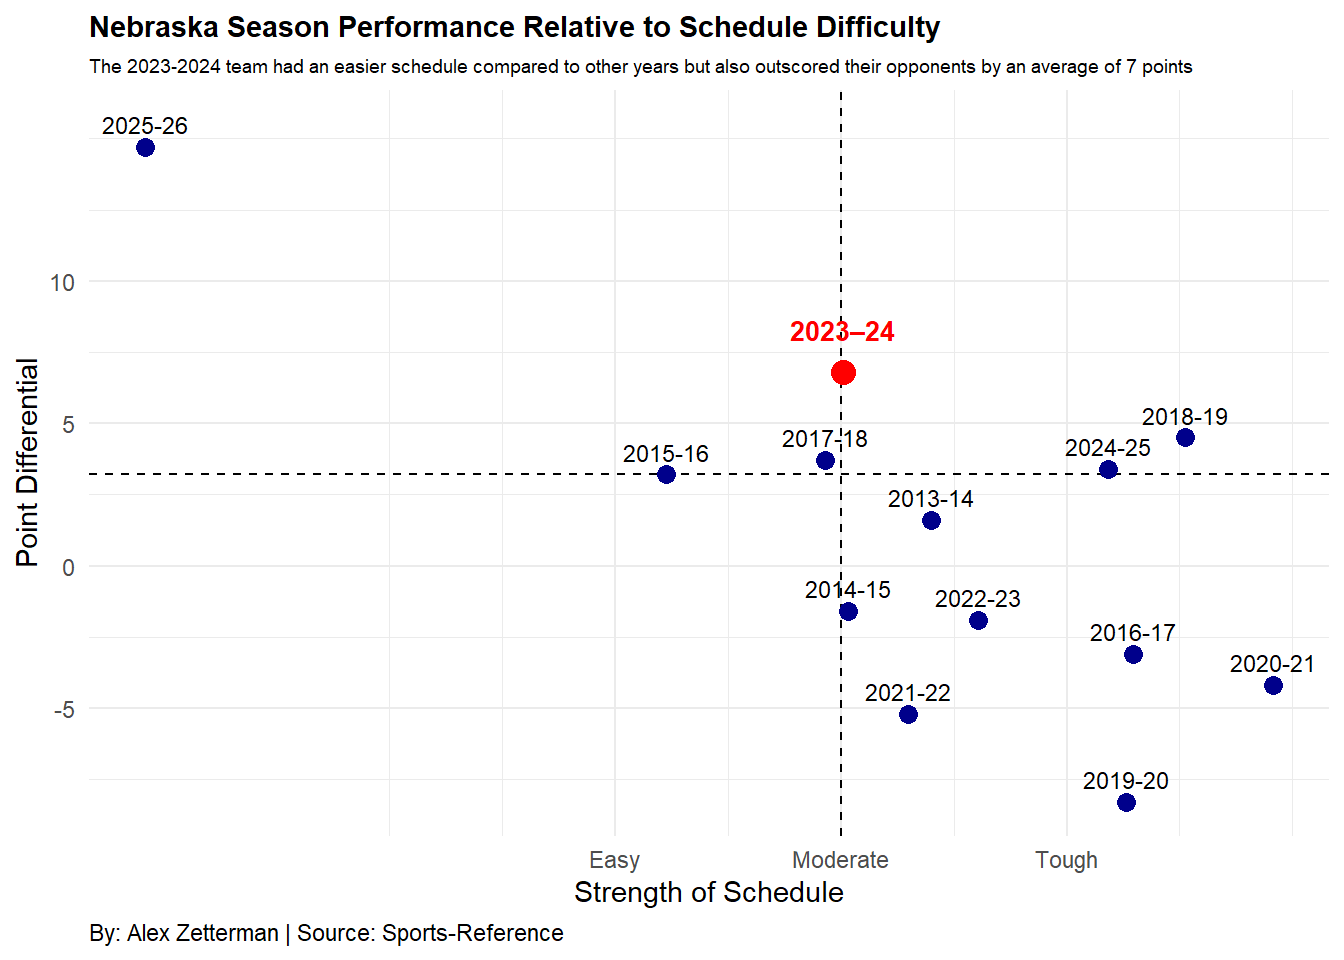
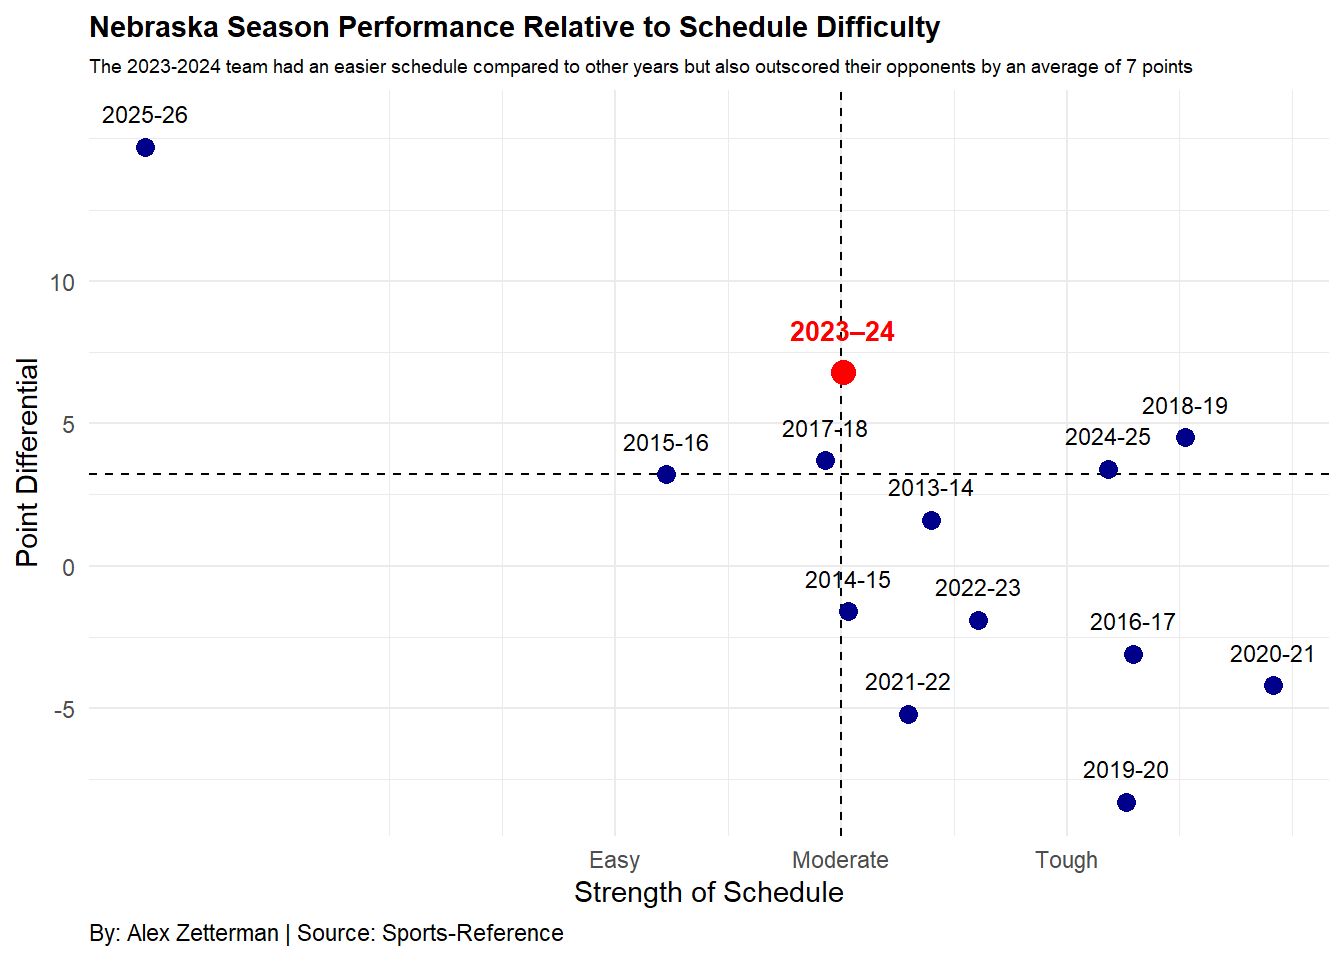
edit

diff --git a/posts/Nebraksa-Mens-Basketball/Index.html b/posts/Nebraksa-Mens-Basketball/Index.html
@@ -461,7 +461,7 @@ pre > code.sourceCode > span > a:first-child::before { text-decoration: underlin
 <div class="code-copy-outer-scaffold"><div class="sourceCode cell-code" id="cb2"><pre class="sourceCode r code-with-copy"><code class="sourceCode r"><span id="cb2-1"><a href="#cb2-1" aria-hidden="true" tabindex="-1"></a>Nebraska_Season <span class="ot">&lt;-</span> Nebraska_Season <span class="sc">|&gt;</span></span>
 <span id="cb2-2"><a href="#cb2-2" aria-hidden="true" tabindex="-1"></a>  <span class="fu">mutate</span>(<span class="at">Point_Diff =</span> Points_For <span class="sc">-</span> Points_Against)</span>
 <span id="cb2-3"><a href="#cb2-3" aria-hidden="true" tabindex="-1"></a></span>
-<span id="cb2-4"><a href="#cb2-4" aria-hidden="true" tabindex="-1"></a>x_mid <span class="ot">&lt;-</span> <span class="fl">7.5</span>  <span class="co"># Moderate SOS</span></span>
+<span id="cb2-4"><a href="#cb2-4" aria-hidden="true" tabindex="-1"></a>x_mid <span class="ot">&lt;-</span> <span class="fl">7.5</span>  </span>
 <span id="cb2-5"><a href="#cb2-5" aria-hidden="true" tabindex="-1"></a>y_mid <span class="ot">&lt;-</span> (<span class="fu">min</span>(Nebraska_Season<span class="sc">$</span>Point_Diff, <span class="at">na.rm =</span> <span class="cn">TRUE</span>) <span class="sc">+</span> <span class="fu">max</span>(Nebraska_Season<span class="sc">$</span>Point_Diff, <span class="at">na.rm =</span> <span class="cn">TRUE</span>)) <span class="sc">/</span> <span class="dv">2</span></span>
 <span id="cb2-6"><a href="#cb2-6" aria-hidden="true" tabindex="-1"></a></span>
 <span id="cb2-7"><a href="#cb2-7" aria-hidden="true" tabindex="-1"></a><span class="fu">ggplot</span>(Nebraska_Season, <span class="fu">aes</span>(<span class="at">x =</span> SOS, <span class="at">y =</span> Point_Diff)) <span class="sc">+</span></span>
@@ -492,32 +492,33 @@ pre > code.sourceCode > span > a:first-child::before { text-decoration: underlin
 <span id="cb2-32"><a href="#cb2-32" aria-hidden="true" tabindex="-1"></a>    <span class="fu">aes</span>(<span class="at">label =</span> Season),</span>
 <span id="cb2-33"><a href="#cb2-33" aria-hidden="true" tabindex="-1"></a>    <span class="at">color =</span> <span class="st">"black"</span>,</span>
 <span id="cb2-34"><a href="#cb2-34" aria-hidden="true" tabindex="-1"></a>    <span class="at">nudge_y =</span> <span class="fl">0.8</span>,</span>
-<span id="cb2-35"><a href="#cb2-35" aria-hidden="true" tabindex="-1"></a>    <span class="at">size =</span> <span class="dv">3</span>,</span>
-<span id="cb2-36"><a href="#cb2-36" aria-hidden="true" tabindex="-1"></a>    <span class="at">check_overlap =</span> <span class="cn">TRUE</span></span>
-<span id="cb2-37"><a href="#cb2-37" aria-hidden="true" tabindex="-1"></a>  ) <span class="sc">+</span></span>
-<span id="cb2-38"><a href="#cb2-38" aria-hidden="true" tabindex="-1"></a>  </span>
-<span id="cb2-39"><a href="#cb2-39" aria-hidden="true" tabindex="-1"></a>  <span class="fu">scale_x_continuous</span>(</span>
-<span id="cb2-40"><a href="#cb2-40" aria-hidden="true" tabindex="-1"></a>    <span class="at">breaks =</span> <span class="fu">c</span>(<span class="dv">5</span>, <span class="fl">7.5</span>, <span class="dv">10</span>),</span>
-<span id="cb2-41"><a href="#cb2-41" aria-hidden="true" tabindex="-1"></a>    <span class="at">labels =</span> <span class="fu">c</span>(<span class="st">"Easy"</span>, <span class="st">"Moderate"</span>, <span class="st">"Tough"</span>)</span>
-<span id="cb2-42"><a href="#cb2-42" aria-hidden="true" tabindex="-1"></a>  ) <span class="sc">+</span></span>
-<span id="cb2-43"><a href="#cb2-43" aria-hidden="true" tabindex="-1"></a>  <span class="fu">scale_y_continuous</span>(</span>
-<span id="cb2-44"><a href="#cb2-44" aria-hidden="true" tabindex="-1"></a>    <span class="at">breaks =</span> <span class="fu">c</span>(<span class="sc">-</span><span class="dv">10</span>, <span class="sc">-</span><span class="dv">5</span>, <span class="dv">0</span>, <span class="dv">5</span>, <span class="dv">10</span>)</span>
-<span id="cb2-45"><a href="#cb2-45" aria-hidden="true" tabindex="-1"></a>  ) <span class="sc">+</span></span>
-<span id="cb2-46"><a href="#cb2-46" aria-hidden="true" tabindex="-1"></a>  </span>
-<span id="cb2-47"><a href="#cb2-47" aria-hidden="true" tabindex="-1"></a>  <span class="fu">labs</span>(</span>
-<span id="cb2-48"><a href="#cb2-48" aria-hidden="true" tabindex="-1"></a>    <span class="at">title =</span> <span class="st">"Nebraska Season Performance Relative to Schedule Difficulty"</span>,</span>
-<span id="cb2-49"><a href="#cb2-49" aria-hidden="true" tabindex="-1"></a>    <span class="at">subtitle =</span> <span class="st">"The 2023-2024 team had an easier schedule compared to other years but also outscored their opponents by an average of 7 points"</span>,</span>
-<span id="cb2-50"><a href="#cb2-50" aria-hidden="true" tabindex="-1"></a>    <span class="at">x =</span> <span class="st">"Strength of Schedule"</span>,</span>
-<span id="cb2-51"><a href="#cb2-51" aria-hidden="true" tabindex="-1"></a>    <span class="at">y =</span> <span class="st">"Point Differential"</span>,</span>
-<span id="cb2-52"><a href="#cb2-52" aria-hidden="true" tabindex="-1"></a>    <span class="at">caption =</span> <span class="st">"By: Alex Zetterman | Source: Sports-Reference"</span></span>
-<span id="cb2-53"><a href="#cb2-53" aria-hidden="true" tabindex="-1"></a>  ) <span class="sc">+</span></span>
-<span id="cb2-54"><a href="#cb2-54" aria-hidden="true" tabindex="-1"></a>  </span>
-<span id="cb2-55"><a href="#cb2-55" aria-hidden="true" tabindex="-1"></a>  <span class="fu">theme_minimal</span>(<span class="at">base_size =</span> <span class="dv">11</span>) <span class="sc">+</span></span>
-<span id="cb2-56"><a href="#cb2-56" aria-hidden="true" tabindex="-1"></a>  <span class="fu">theme</span>(</span>
-<span id="cb2-57"><a href="#cb2-57" aria-hidden="true" tabindex="-1"></a>    <span class="at">plot.title =</span> <span class="fu">element_text</span>(<span class="at">face =</span> <span class="st">"bold"</span>, <span class="at">size =</span> <span class="dv">11</span>),</span>
-<span id="cb2-58"><a href="#cb2-58" aria-hidden="true" tabindex="-1"></a>    <span class="at">plot.subtitle =</span> <span class="fu">element_text</span>(<span class="at">size=</span><span class="dv">7</span>),</span>
-<span id="cb2-59"><a href="#cb2-59" aria-hidden="true" tabindex="-1"></a>    <span class="at">plot.caption =</span> <span class="fu">element_text</span>(<span class="at">hjust =</span> <span class="dv">0</span>)</span>
-<span id="cb2-60"><a href="#cb2-60" aria-hidden="true" tabindex="-1"></a>  )</span></code></pre></div><button title="Copy to Clipboard" class="code-copy-button"><i class="bi"></i></button></div>
+<span id="cb2-35"><a href="#cb2-35" aria-hidden="true" tabindex="-1"></a>    <span class="at">vjust=</span> <span class="sc">-</span><span class="fl">0.1</span>,</span>
+<span id="cb2-36"><a href="#cb2-36" aria-hidden="true" tabindex="-1"></a>    <span class="at">size =</span> <span class="dv">3</span>,</span>
+<span id="cb2-37"><a href="#cb2-37" aria-hidden="true" tabindex="-1"></a>    <span class="at">check_overlap =</span> <span class="cn">TRUE</span></span>
+<span id="cb2-38"><a href="#cb2-38" aria-hidden="true" tabindex="-1"></a>  ) <span class="sc">+</span></span>
+<span id="cb2-39"><a href="#cb2-39" aria-hidden="true" tabindex="-1"></a>  </span>
+<span id="cb2-40"><a href="#cb2-40" aria-hidden="true" tabindex="-1"></a>  <span class="fu">scale_x_continuous</span>(</span>
+<span id="cb2-41"><a href="#cb2-41" aria-hidden="true" tabindex="-1"></a>    <span class="at">breaks =</span> <span class="fu">c</span>(<span class="dv">5</span>, <span class="fl">7.5</span>, <span class="dv">10</span>),</span>
+<span id="cb2-42"><a href="#cb2-42" aria-hidden="true" tabindex="-1"></a>    <span class="at">labels =</span> <span class="fu">c</span>(<span class="st">"Easy"</span>, <span class="st">"Moderate"</span>, <span class="st">"Tough"</span>)</span>
+<span id="cb2-43"><a href="#cb2-43" aria-hidden="true" tabindex="-1"></a>  ) <span class="sc">+</span></span>
+<span id="cb2-44"><a href="#cb2-44" aria-hidden="true" tabindex="-1"></a>  <span class="fu">scale_y_continuous</span>(</span>
+<span id="cb2-45"><a href="#cb2-45" aria-hidden="true" tabindex="-1"></a>    <span class="at">breaks =</span> <span class="fu">c</span>(<span class="sc">-</span><span class="dv">10</span>, <span class="sc">-</span><span class="dv">5</span>, <span class="dv">0</span>, <span class="dv">5</span>, <span class="dv">10</span>)</span>
+<span id="cb2-46"><a href="#cb2-46" aria-hidden="true" tabindex="-1"></a>  ) <span class="sc">+</span></span>
+<span id="cb2-47"><a href="#cb2-47" aria-hidden="true" tabindex="-1"></a>  </span>
+<span id="cb2-48"><a href="#cb2-48" aria-hidden="true" tabindex="-1"></a>  <span class="fu">labs</span>(</span>
+<span id="cb2-49"><a href="#cb2-49" aria-hidden="true" tabindex="-1"></a>    <span class="at">title =</span> <span class="st">"Nebraska Season Performance Relative to Schedule Difficulty"</span>,</span>
+<span id="cb2-50"><a href="#cb2-50" aria-hidden="true" tabindex="-1"></a>    <span class="at">subtitle =</span> <span class="st">"The 2023-2024 team had an easier schedule compared to other years but also outscored their opponents by an average of 7 points"</span>,</span>
+<span id="cb2-51"><a href="#cb2-51" aria-hidden="true" tabindex="-1"></a>    <span class="at">x =</span> <span class="st">"Strength of Schedule"</span>,</span>
+<span id="cb2-52"><a href="#cb2-52" aria-hidden="true" tabindex="-1"></a>    <span class="at">y =</span> <span class="st">"Point Differential"</span>,</span>
+<span id="cb2-53"><a href="#cb2-53" aria-hidden="true" tabindex="-1"></a>    <span class="at">caption =</span> <span class="st">"By: Alex Zetterman | Source: Sports-Reference"</span></span>
+<span id="cb2-54"><a href="#cb2-54" aria-hidden="true" tabindex="-1"></a>  ) <span class="sc">+</span></span>
+<span id="cb2-55"><a href="#cb2-55" aria-hidden="true" tabindex="-1"></a>  </span>
+<span id="cb2-56"><a href="#cb2-56" aria-hidden="true" tabindex="-1"></a>  <span class="fu">theme_minimal</span>(<span class="at">base_size =</span> <span class="dv">11</span>) <span class="sc">+</span></span>
+<span id="cb2-57"><a href="#cb2-57" aria-hidden="true" tabindex="-1"></a>  <span class="fu">theme</span>(</span>
+<span id="cb2-58"><a href="#cb2-58" aria-hidden="true" tabindex="-1"></a>    <span class="at">plot.title =</span> <span class="fu">element_text</span>(<span class="at">face =</span> <span class="st">"bold"</span>, <span class="at">size =</span> <span class="dv">11</span>),</span>
+<span id="cb2-59"><a href="#cb2-59" aria-hidden="true" tabindex="-1"></a>    <span class="at">plot.subtitle =</span> <span class="fu">element_text</span>(<span class="at">size=</span><span class="dv">7</span>),</span>
+<span id="cb2-60"><a href="#cb2-60" aria-hidden="true" tabindex="-1"></a>    <span class="at">plot.caption =</span> <span class="fu">element_text</span>(<span class="at">hjust =</span> <span class="dv">0</span>)</span>
+<span id="cb2-61"><a href="#cb2-61" aria-hidden="true" tabindex="-1"></a>  )</span></code></pre></div><button title="Copy to Clipboard" class="code-copy-button"><i class="bi"></i></button></div>
 </details>
 <div class="cell-output-display">
 <div>

diff --git a/index.html b/index.html
@@ -378,7 +378,7 @@ window.Quarto = {
 
 <div class="quarto-listing quarto-listing-container-default" id="listing-listing">
 <div class="list quarto-listing-default">
-<div class="quarto-post image-right" data-index="0" data-categories="QmFza2V0YmFsbCUyQ05DQUFC" data-listing-date-sort="1765260000000" data-listing-file-modified-sort="1764894186595" data-listing-date-modified-sort="NaN" data-listing-reading-time-sort="9" data-listing-word-count-sort="1653">
+<div class="quarto-post image-right" data-index="0" data-categories="QmFza2V0YmFsbCUyQ05DQUFC" data-listing-date-sort="1765260000000" data-listing-file-modified-sort="1765141287684" data-listing-date-modified-sort="NaN" data-listing-reading-time-sort="9" data-listing-word-count-sort="1656">
 <div class="thumbnail"><a href="./posts/Nebraksa-Mens-Basketball/Index.html" class="no-external">
 
 <img loading="lazy" src="./posts/Nebraksa-Mens-Basketball/image.png" class="thumbnail-image">
